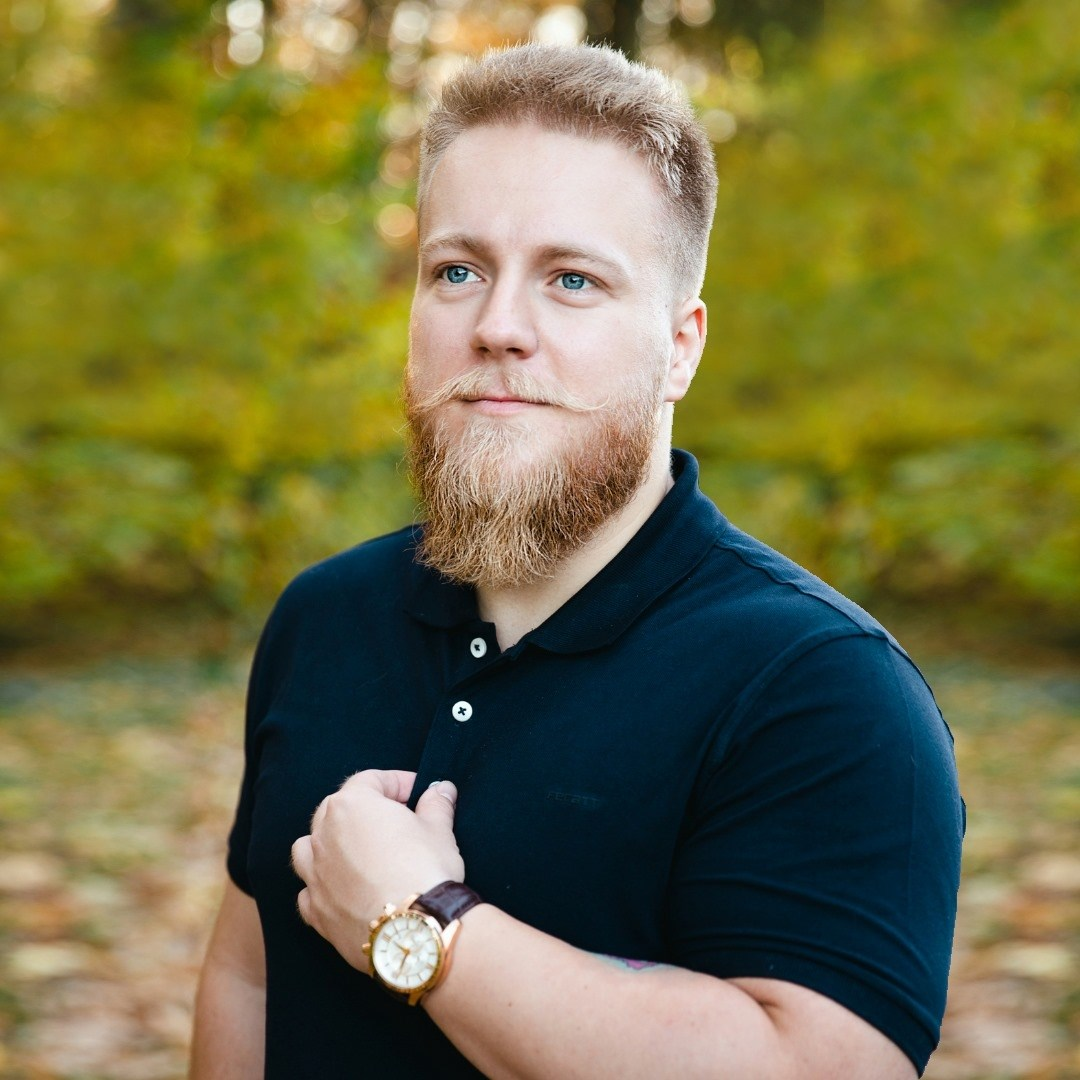
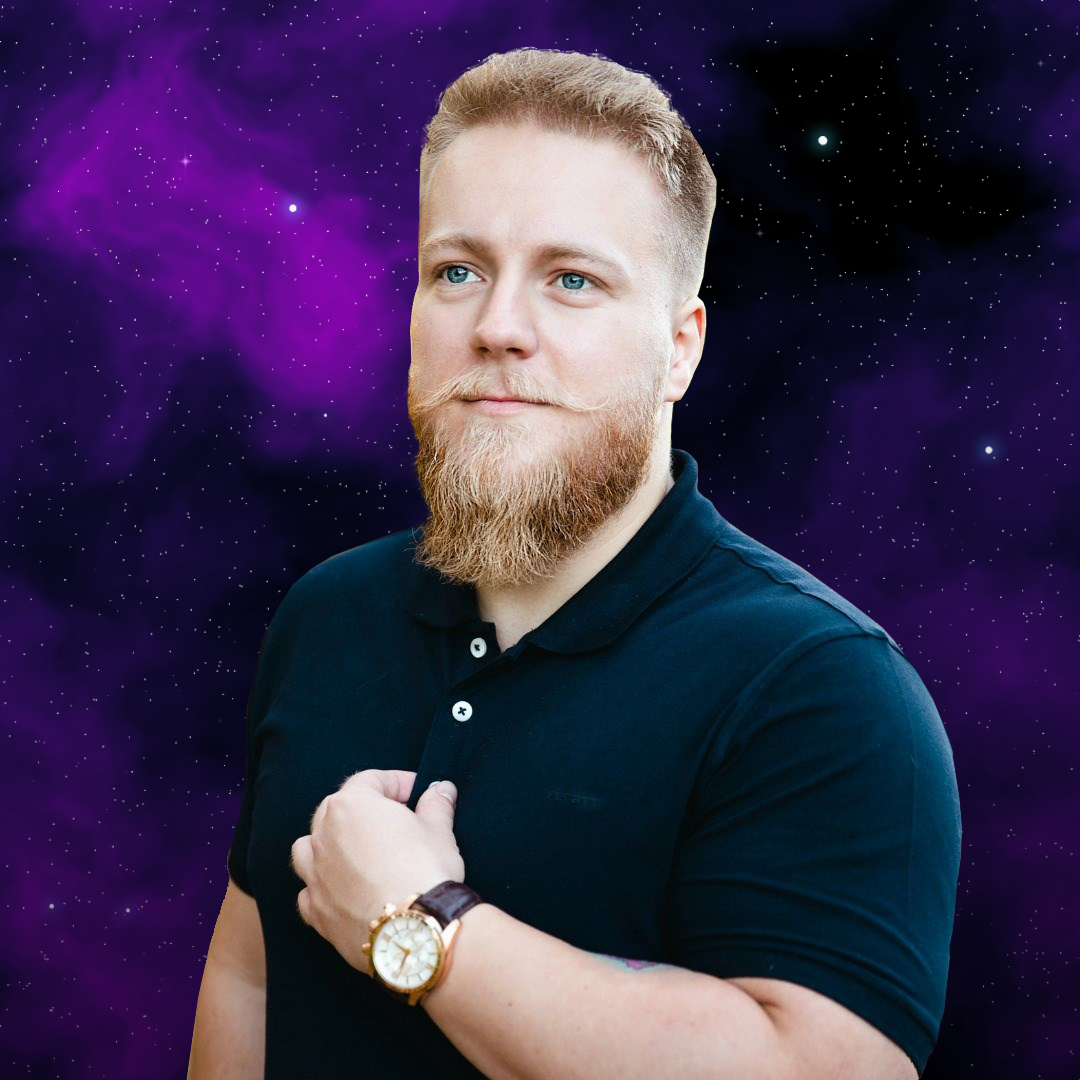
Almost finished
only small animated pictures missing

diff --git a/src/App.stylesVars.js b/src/App.stylesVars.js
@@ -1,25 +1,53 @@
 import styled from "styled-components";
+import landingPageBackgroundDark2 from '../src/assets/pictures/landingPage/landingPageBackgroundDark2.jpg';
+import purpleNebula6 from '../src/assets/pictures/landingPage/purpleNebula6.png';
 
 //COLOR SCHEME
-export const almostBlack = '#0B0C10';
-export const almostBlackOp01 = 'rgba(11,12,16,0.1)';
-export const almostBlackOp03 = 'rgba(11,12,16,0.3)';
-export const almostBlackOp = 'rgba(11,12,16,0.5)';
-export const darkGrey = '#1F2833';
-export const lightGrey = '#C5C6C7';
-export const darkTurquoise = '#45A29E';
-export const lightTurquoise = '#66FCF1';
+export const almostBlack = 'rgba(10,10,10,1)';
+export const almostBlackOp01 = 'rgba(10,10,10,0.1)';
+export const almostBlackOp03 = 'rgba(10,10,10,0.3)';
+export const almostBlackOp = 'rgba(10,10,10,0.5)';
+export const darkGrey = '#4C0D7D';
+export const lightGrey = '#5ED3DC';
+export const darkTurquoise = '#D731A7';
+export const lightTurquoise = '#F08FEF';
 export const whiteFull = 'rgb(255,255,255)';
 export const whiteOp01 = 'rgba(255,255,255,0.1)';
 export const whiteOp03 = 'rgba(255,255,255,0.3)';
 export const whiteOp = 'rgba(255,255,255,0.5)';
 
 
-
+export const PageContainer = styled.div`
+   display: flex;
+   flex-direction: column;
+   padding-top: 100px;
+   padding-bottom: 50px;
+   min-height: 100vh;
+   width: 100%;
+   justify-content: start;
+   align-items: center;
+   background-image: url(${landingPageBackgroundDark2});
+   background-size: cover;
+   background-repeat: no-repeat;
+   background-position: center;
+   @media (max-width: 768px) {
+      background-image: url(${purpleNebula6});
+      background-position: top;
+      background-repeat: repeat-y;
+      background-size: contain;
+   }
+`;
 export const H1 = styled.h1`
    color: white;
    font-size: 35px;
-   margin-bottom: 10px;
+   margin-bottom: 15px;
+   width: 80%;
+   max-width: 1200px;
+   text-align: center;
+   background-color: ${whiteOp03};
+   -webkit-backdrop-filter: blur(10px);
+   backdrop-filter: blur(8px);
+   border-radius: 20px 20px 0 0;
    @media (max-width: 768px) {
       font-size: 30px;
    }

diff --git a/src/components/About/aboutStyles.js b/src/components/About/aboutStyles.js
@@ -1,22 +1,7 @@
 import styled from "styled-components";
 import * as palette from '../../App.stylesVars';
 import Avatar from '../../assets/pictures/profilePicture.jpg';
-import spaceBackground from '../../assets/pictures/spacePozadi.jpg';
 
-export const AboutContainer = styled.div`
-   display: flex;
-   flex-direction: column;
-   padding-top: 100px;
-   padding-bottom: 50px;
-   min-height: 100vh;
-   width: 100%;
-   justify-content: start;
-   align-items: center;
-   background-image: url(${spaceBackground});
-   background-size: cover;
-   background-repeat: no-repeat;
-   background-position: center;
-`;
 export const AboutGrid = styled.div`
    display: grid;
    gap: 20px;
@@ -106,29 +91,14 @@ export const CvButton = styled.a`
    font-size: 15px;
    margin: 20px;
    text-decoration: none;
-   color: ${palette.lightGrey};
+   color: ${palette.whiteFull};
    background-color: rgba(255,255,255,0.1);
    -webkit-backdrop-filter: blur(10px);
    backdrop-filter: blur(8px);
-   border: 1px solid rgba(255,255,255,0.3);
+   border: 1px solid rgba(255,255,255,0.5);
    cursor: pointer;
    &:hover {
       color: white;
       background-color: rgba(255,255,255,0.5);
-   }
-`;
-export const H1 = styled.h1`
-   color: white;
-   font-size: 35px;
-   margin-bottom: 15px;
-   width: 80%;
-   max-width: 1200px;
-   text-align: center;
-   background-color: ${palette.whiteOp03};
-   -webkit-backdrop-filter: blur(10px);
-   backdrop-filter: blur(8px);
-   border-radius: 20px 20px 0 0;
-   @media (max-width: 768px) {
-      font-size: 30px;
    }
 `;

diff --git a/src/components/Home/homeStyles.js b/src/components/Home/homeStyles.js
@@ -1,7 +1,9 @@
 import styled from "styled-components";
 import * as palette from '../../App.stylesVars';
-import spaceBackground from '../../assets/pictures/spacePozadi.jpg';
+//import spaceBackground from '../../assets/pictures/spacePozadi.jpg';
 import { CvButton } from "../About/aboutStyles";
+import landingPageBackground from '../../assets/pictures/landingPage/landingPageBackground.jpg';
+import landingPageHero from '../../assets/pictures/landingPage/landingPageHero.png';
 
 export const PageContainer = styled.div`
    position: relative;
@@ -11,9 +13,8 @@ export const PageContainer = styled.div`
    padding-bottom: 50px;
    min-height: 100vh;
    width: 100%;
-   //justify-content: start;
    align-items: center;
-   background-image: url(${spaceBackground});
+   background-image: url(${landingPageBackground});
    background-size: cover;
    background-repeat: no-repeat;
    background-position: center;
@@ -23,7 +24,7 @@ export const H1home = styled.h1`
       font-size: 35px;
       text-align: center;
       max-width: 80%;
-      z-index: 8;
+      z-index: 6;
       @media (max-width: 768px) {
          font-size: 25px;
       }
@@ -50,4 +51,14 @@ export const CvButtonHome = styled(CvButton)`
       transition: 0.7s ease-in-out;
       border-radius: 0;
    }
+`;
+export const Hero = styled.div`
+   position: absolute;
+   z-index: 7;
+   height: 100%;
+   aspect-ratio: 498/1080;
+   background-image: url(${landingPageHero});
+   background-size: cover;
+   background-position: center;
+   top: 0;
 `;

diff --git a/src/components/Footer/footerStyles.js b/src/components/Footer/footerStyles.js
@@ -33,7 +33,7 @@ export const FooterBody = styled.div`
 export const FooterItem = styled.div`
    display: flex;
    flex-direction: column;
-   color: ${palette.lightGrey};
+   color: ${palette.almostBlack};
    text-align: left;
    justify-content: center;
    &:nth-child(1) {
@@ -41,7 +41,7 @@ export const FooterItem = styled.div`
       grid-area: a;
       @media (max-width: 500px) {
          text-align: center;
-         border-bottom: 1px solid ${palette.darkGrey};
+         border-bottom: 1px solid ${palette.whiteFull};
       }
    }
    &:nth-child(2) {
@@ -49,7 +49,7 @@ export const FooterItem = styled.div`
       grid-area: b;
       @media (max-width: 500px) {
          text-align: center;
-         border-bottom: 1px solid ${palette.darkGrey};
+         border-bottom: 1px solid ${palette.whiteFull};
       }
    }
    &:nth-child(3) {
@@ -61,19 +61,19 @@ export const FooterItem = styled.div`
    }
 `;
 export const H1 = styled.h1`
-   color: ${palette.darkTurquoise};
+   color: ${palette.whiteFull};
    font-size: 15px;
 `;
 export const B = styled.b`
-   color: ${palette.lightGrey};
+   color: ${palette.whiteFull};
    font-size: 13px;
 `;
 export const P = styled.p`
-   color: ${palette.lightGrey};
+   color: ${palette.whiteFull};
    font-size: 13px;
 `;
 export const NewTabLink = styled.a`
-   color: ${palette.lightGrey};
+   color: ${palette.whiteFull};
    font-size: 13px;
    text-decoration: underline;
 `;

diff --git a/src/components/Navbar/navbarStyles.js b/src/components/Navbar/navbarStyles.js
@@ -18,13 +18,11 @@ export const Navi = styled.nav`
       return `
       transition: 0.6s ease-in-out;
       background: ${palette.almostBlackOp03};
-      border-bottom: 1px solid ${palette.whiteOp03};
       `;
     } else {
       return `
       transition: 0.6s ease-in-out;
       background-color: ${palette.almostBlack};
-      border: none;
       `;
     }
    }}
@@ -46,15 +44,11 @@ export const MenuItem = styled.li`
 `;
 export const MenuLink = styled(Link)`
    text-decoration: none;
-   color: ${palette.lightGrey};
+   color: ${palette.whiteFull};
    font-size: 16px;
 
    &:hover {
-      color: white;
-   }
-   &::after {
-      color: white;
-      border-bottom: 1px solid white;
+      color: ${palette.lightTurquoise};
    }
 `;
 export const BrandName = styled.div`
@@ -82,13 +76,11 @@ export const MobNavi = styled.nav`
       return `
       transition: 0.6s ease-in-out;
       background: ${palette.almostBlackOp03};
-      border-bottom: 1px solid ${palette.whiteOp03};
       `;
     } else {
       return `
       transition: 0.6s ease-in-out;
       background-color: ${palette.almostBlack};
-      border: none;
       `;
     }
    }}
@@ -100,7 +92,7 @@ export const MobNavi = styled.nav`
 export const Hamburger = styled(RiMenuFill)`
    height: 50px;
    width: 50px;
-   color: ${palette.lightGrey};
+   color: ${palette.whiteFull};
    margin-right: 20px;
    cursor: pointer;
 `;

diff --git a/src/components/Contact/index.js b/src/components/Contact/index.js
@@ -1,5 +1,6 @@
 import React from 'react';
-import { ButtonsContainer, ContactButton, ContactContainer, H1, LogoContainer } from './contactStyles';
+import { ButtonsContainer, ContactButton, LogoContainer } from './contactStyles';
+import { PageContainer, H1 } from '../../App.stylesVars';
 import ContactForm from './contactForm';
 import EmailLogo from '../../assets/pictures/contact/emailLogo.svg';
 import MessengerLogo from '../../assets/pictures/contact/messengerLogo.svg';
@@ -8,7 +9,7 @@ import WhatsAppLogo from '../../assets/pictures/contact/whatsAppLogo.svg';
 export default function Contact() {
 
    return (
-      <ContactContainer>
+      <PageContainer>
          <H1>KONTAKT</H1>
          <ButtonsContainer>
             <ContactButton onClick={(e) => {window.open("mailto:leinweber.martin@gmail.com", "_blank")}}>
@@ -34,6 +35,6 @@ export default function Contact() {
             </ContactButton>
          </ButtonsContainer>
          <ContactForm />
-      </ContactContainer>
+      </PageContainer>
    )
 }

diff --git a/src/components/Gallery/index.js b/src/components/Gallery/index.js
@@ -1,5 +1,6 @@
 import React, { useState, useReducer, useRef } from 'react';
-import { FilterButton, FilterButtons, GalleryContainer, H1 } from './galleryStyles';
+import { FilterButton, FilterButtons, } from './galleryStyles';
+import { PageContainer, H1 } from '../../App.stylesVars';
 import ProjectsList from './projectsList';
 import { ProjectsDatabase } from './galleryData';
 
@@ -23,7 +24,7 @@ export default function Gallery() {
    const designToggle = useRef(false);
 
    return (
-      <GalleryContainer>
+      <PageContainer>
       <H1>PROJEKTY</H1>
       <FilterButtons>
          <FilterButton toggle={codeToggle.current} onClick={function(event){
@@ -73,6 +74,6 @@ export default function Gallery() {
             }
          )}
       filter={filter.filter}/>
-      </GalleryContainer>
+      </PageContainer>
    );
 };

diff --git a/src/components/Home/index.js b/src/components/Home/index.js
@@ -1,5 +1,5 @@
 import { useState } from 'react';
-import { CvButtonHome, H1home, H2home, PageContainer } from './homeStyles';
+import { CvButtonHome, H1home, H2home, PageContainer, Hero } from './homeStyles';
 import myCvPdf from '../../assets/files/leinweberCV.pdf'
 
 export default function Home() {
@@ -11,6 +11,7 @@ export default function Home() {
       <PageContainer>
          <H1home>Martin Leinweber</H1home>
          <H2home>Designer / Web&nbsp;Dev / Cat&nbsp;Dad</H2home>
+         <Hero></Hero>
          <CvButtonHome href={myCvPdf} onClick={() => {
             setCvDownloaded(true);
          }} download='leinweberCV.pdf'>

diff --git a/src/components/Gallery/galleryStyles.js b/src/components/Gallery/galleryStyles.js
@@ -2,20 +2,6 @@ import styled from "styled-components";
 import * as palette from '../../App.stylesVars';
 import spaceBackground from '../../assets/pictures/spacePozadi.jpg';
 
-export const GalleryContainer = styled.div`
-   display: flex;
-   flex-direction: column;
-   padding-top: 100px;
-   padding-bottom: 50px;
-   min-height: 100vh;
-   width: 100%;
-   justify-content: start;
-   align-items: center;
-   background-image: url(${spaceBackground});
-   background-size: cover;
-   background-repeat: no-repeat;
-   background-position: center;
-`;
 export const GalleryBody = styled.div`
    display: flex;
    flex-direction: row;

diff --git a/src/components/Contact/contactStyles.js b/src/components/Contact/contactStyles.js
@@ -24,20 +24,6 @@ export const H2 = styled(H1)`
    padding: 5px;
    border-bottom: 1px solid ${palette.whiteOp03};
 `;
-export const ContactContainer = styled.div`
-display: flex;
-flex-direction: column;
-padding-top: 100px;
-padding-bottom: 50px;
-min-height: 100vh;
-width: 100%;
-justify-content: start;
-align-items: center;
-background-image: url(${spaceBackground});
-background-size: cover;
-background-repeat: no-repeat;
-background-position: center;
-`;
 export const ButtonsContainer = styled.div`
    display: grid;
    flex-wrap: wrap;

diff --git a/src/components/About/index.js b/src/components/About/index.js
@@ -1,14 +1,15 @@
 import React from 'react';
-import { AboutGrid, AboutContainer, H1 } from './aboutStyles';
+import { AboutGrid } from './aboutStyles';
+import { PageContainer, H1 } from '../../App.stylesVars';
 import AboutTechStack from './aboutTechStack';
 
 export default function About() {
 	return (
-		<AboutContainer>
+		<PageContainer>
 			<H1>MARTIN LEINWEBER</H1>
 			<AboutGrid>
 				<AboutTechStack />
 			</AboutGrid>
-		</AboutContainer>
+		</PageContainer>
 	);
 };
